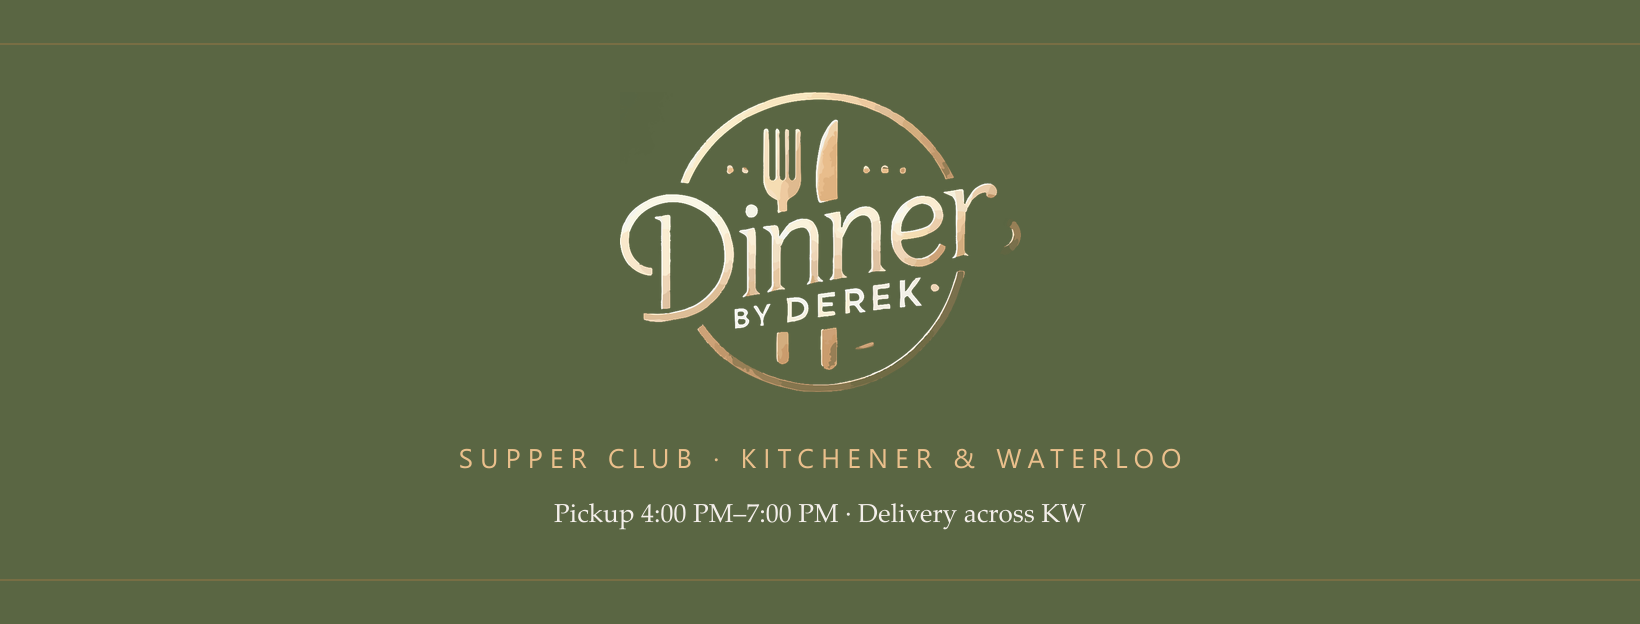
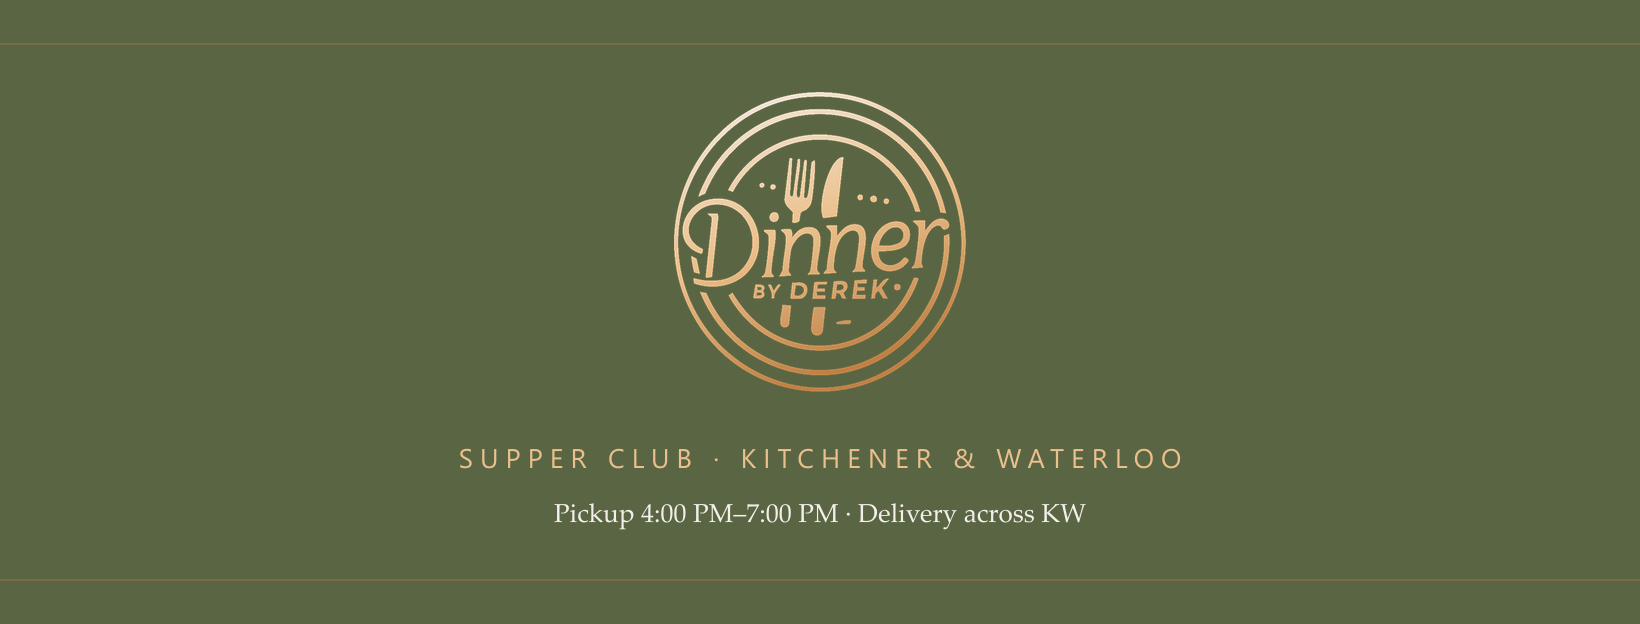
Cut the gold lockup from the line art
The lockup on the card, the social graphics and the README banner came from
logo-wordmark.svg, which is a trace of a soft render. Its strokes carry the
original's blur, its outer ring is broken, and it arrives gold-on-charcoal, so
the ground had to be keyed out by luminance and squared twice to kill the
vignette — a process that eats the darker strokes at exactly the edges that
define the mark. The result was patchy at any size.

The line art is the same mark drawn cleanly: unbroken double ring, real
transparency, hard edges. The shape now comes from there, and only the colour
is applied — a gradient of three palette stops, light at the top left and
deepening to the bottom right, which is what the gold artwork did and what a
stamped badge does. Nothing is sampled from the old file, so the lockup moves
when the palette moves.

It is built at the source's own size and resized once on the way out, rather
than up to a master size and back down.

The card front needed a number changed. The old lockup was wide — about 400px
across at 296 tall — and the line art is very nearly square, so holding the
height would have shrunk the mark by a quarter and left the card underfilled.
Grown to 340 with its centre held where it was, which restores the width the
layout was designed around. Every other layout keeps its size.

The ink threshold constants now live in brandmark.js and make-icons.js reads
them, rather than each carrying its own copy of two numbers tuned against one
file.

Changed region(s): [[0.3732, 0.1522, 0.622, 0.6394]]

diff --git a/scripts/brandmark.js b/scripts/brandmark.js
@@ -13,9 +13,15 @@
 
 const path = require('path');
 const sharp = require('sharp');
+const { palette } = require('../server/theme');
 
 const SOURCE = path.join(__dirname, '..', 'brand', 'logo-medallion.jpg');
+const LINEART = path.join(__dirname, '..', 'brand', 'logo-lineart.png');
 const WORDMARK = path.join(__dirname, '..', 'brand', 'logo-wordmark.svg');
+
+/** Ink threshold: pixels darker than this are logo, lighter are paper. */
+const INK_GAIN = 3.0;
+const INK_BIAS = -180;
 
 /**
  * Bounding box of the coloured artwork, grown to a square.
@@ -92,42 +98,67 @@ async function circle(size, file = SOURCE) {
 }
 
 /**
- * The full logo lockup — ring, cutlery, "Dinner" script, "BY DEREK" — knocked
- * out of its own background so it can sit on any dark brand colour.
+ * The full logo lockup — double ring, cutlery, "Dinner" script, "BY DEREK" —
+ * in the brand's gold, on a transparent ground so it can sit on any dark brand
+ * colour.
  *
- * It is supplied as gold-and-cream artwork on a cool charcoal ground, which is
- * off-palette. Rather than reproduce the mark, the charcoal is removed: the
- * artwork is light and its ground is dark, so luminance makes a usable alpha.
- * Squaring that alpha twice collapses the faint rectangular wash left by the
- * source's vignette — a plain threshold high enough to kill the wash also eats
- * the darker gold strokes, and a hard threshold jags the script.
+ * CUT FROM THE LINE ART, NOT FROM THE GOLD ARTWORK. Both exist. The gold
+ * version is a trace of a soft render: its strokes carry the original's
+ * blur, its outer ring is broken, and it arrives on a charcoal ground that has
+ * to be keyed out by luminance — which eats the darker strokes at exactly the
+ * edges that matter. The line art is the same mark drawn cleanly, with real
+ * transparency and an unbroken ring, so the shape comes from there and only
+ * the colour is applied here.
+ *
+ * The colour is a gradient of three palette stops, light at the top left and
+ * deepening to the bottom right, which is what the gold artwork does and what
+ * a stamped metal badge does. Nothing is sampled from the old file; the stops
+ * are palette names, so the lockup moves when the palette moves.
  *
  * Light artwork: this belongs on olive, espresso or umber, never on parchment.
  */
+const GOLD = [
+  [0, palette.parchment],
+  [0.55, palette['tan-lift']],
+  [1, palette.tan],
+];
+
+function goldFill(width, height) {
+  const stops = GOLD.map(([offset, colour]) =>
+    `<stop offset="${offset}" stop-color="${colour}"/>`).join('');
+  return Buffer.from(`<svg width="${width}" height="${height}">
+    <defs><linearGradient id="g" x1="0" y1="0" x2="0.35" y2="1">${stops}</linearGradient></defs>
+    <rect width="${width}" height="${height}" fill="url(#g)"/></svg>`);
+}
+
 let masterPromise = null;
-const MASTER = 1200;
 
 function master() {
   if (!masterPromise) {
     masterPromise = (async () => {
-      const rgb = await sharp(WORDMARK, { density: 300 })
-        .resize(MASTER, MASTER, { fit: 'inside' })
-        .removeAlpha()
+      // Built at the source's own size and resized once, on the way out, so a
+      // caller asking for 296px gets one interpolation rather than an upscale
+      // to some master size and a downscale back again.
+      const alpha = await sharp(LINEART)
+        .flatten({ background: { r: 255, g: 255, b: 255 } })
+        .greyscale()
+        .negate()                      // ink becomes bright
+        .linear(INK_GAIN, INK_BIAS)    // crush the paper to nothing, keep soft edges
+        .toColourspace('b-w')
+        .png()
         .toBuffer();
-      let alpha = await sharp(rgb).greyscale().linear(2.4, -130).toColourspace('b-w').toBuffer();
-      for (let i = 0; i < 2; i++) {
-        alpha = await sharp(alpha)
-          .composite([{ input: alpha, blend: 'multiply' }])
-          .toColourspace('b-w')
-          .toBuffer();
-      }
-      const cut = await sharp(rgb).joinChannel(alpha).png().toBuffer();
-      // Trimmed to the artwork's own edge, in a second pass: trim inspects the
-      // pipeline's input, so chaining it onto joinChannel would test the opaque
-      // charcoal and find nothing to cut. The source centres the lockup in a
-      // square with wide margins, and leaving those in lands the mark far
-      // smaller than the size asked for and drags whitespace into every layout.
-      return sharp(cut).trim({ threshold: 25 }).png({ compressionLevel: 9 }).toBuffer();
+      const { width, height } = await sharp(alpha).metadata();
+
+      // removeAlpha before joining: the rasterised gradient already carries an
+      // alpha channel, and joining onto four channels makes a fifth that sharp
+      // keeps as a band rather than as transparency — a fully opaque rectangle.
+      const fill = await sharp(goldFill(width, height)).removeAlpha().png().toBuffer();
+      const cut = await sharp(fill).joinChannel(alpha).png().toBuffer();
+
+      // Trimmed in a second pass: trim inspects the pipeline's input, so
+      // chaining it onto joinChannel would test the opaque gradient and find
+      // nothing to cut.
+      return sharp(cut).trim({ threshold: 10 }).png({ compressionLevel: 9 }).toBuffer();
     })();
   }
   return masterPromise;
@@ -147,4 +178,6 @@ async function wordmark({ width, height }) {
   return { data: out, width: meta.width, height: meta.height };
 }
 
-module.exports = { SOURCE, WORDMARK, bounds, circle, wordmark };
+module.exports = {
+  SOURCE, LINEART, WORDMARK, INK_GAIN, INK_BIAS, bounds, circle, wordmark,
+};

diff --git a/scripts/card.js b/scripts/card.js
@@ -167,7 +167,12 @@ const hour12 = (h) => `${h % 12 === 0 ? 12 : h % 12} ${h < 12 ? 'AM' : 'PM'}`;
  * set in type up here except the one line saying what this is and where.
  */
 async function front() {
-  const mark = await brandmark.wordmark({ height: 296 });
+  // Sized to the badge's width, not its height. The lockup used to be a wide
+  // mark about 400px across at this height; cut from the line art it is very
+  // nearly square, so holding the old height would have quietly shrunk it by a
+  // quarter and left the card looking underfilled. Grown until it carries the
+  // same width as before, and its centre held where it was.
+  const mark = await brandmark.wordmark({ height: 340 });
   const body = [
     rule(0, 100, W, palette.tan, 0.32, 2),
     rule(0, 576, W, palette.tan, 0.32, 2),
@@ -176,7 +181,7 @@ async function front() {
   ].join('');
 
   return render('card-front.png', palette.olive, body,
-    [{ input: mark.data, top: 146, left: Math.round(MID - mark.width / 2) }]);
+    [{ input: mark.data, top: 124, left: Math.round(MID - mark.width / 2) }]);
 }
 
 /* --- Back -----------------------------------------------------------------
@@ -238,7 +243,7 @@ async function back(d, url) {
 
 /* --- Run ------------------------------------------------------------------ */
 async function generate() {
-  for (const f of [brandmark.WORDMARK, brandmark.SOURCE]) {
+  for (const f of [brandmark.LINEART, brandmark.SOURCE]) {
     if (!fs.existsSync(f)) throw new Error(`Missing brand artwork: ${f}`);
   }
   fs.mkdirSync(OUT, { recursive: true });

diff --git a/scripts/make-icons.js b/scripts/make-icons.js
@@ -52,9 +52,10 @@ const paper = () => {
   return paperPromise;
 };
 
-/** Ink threshold: pixels darker than this are logo, lighter are paper. */
-const INK_GAIN = 3.0;
-const INK_BIAS = -180;
+/* Ink threshold: pixels darker than this are logo, lighter are paper. Defined
+   in brandmark.js, which cuts the lockup from the same line art — one set of
+   numbers tuned against one file, not two that can drift apart. */
+const { INK_GAIN, INK_BIAS } = brandmark;
 
 function hexToRgb(hex) {
   const h = hex.replace('#', '');

diff --git a/scripts/readme-art.js b/scripts/readme-art.js
@@ -179,8 +179,8 @@ const SWATCHES = ['olive', 'tan', 'umber', 'parchment', 'espresso', 'ochre',
 
 /* --- Run ------------------------------------------------------------------ */
 async function generate() {
-  if (!fs.existsSync(brandmark.WORDMARK)) {
-    throw new Error(`Missing brand artwork: ${brandmark.WORDMARK}`);
+  if (!fs.existsSync(brandmark.LINEART)) {
+    throw new Error(`Missing brand artwork: ${brandmark.LINEART}`);
   }
   fs.mkdirSync(OUT, { recursive: true });
 

diff --git a/scripts/social.js b/scripts/social.js
@@ -323,7 +323,7 @@ async function linkPreview(w) {
  * a function call doesn't already give — including the real error text.
  */
 async function generate() {
-  for (const f of [brandmark.WORDMARK, brandmark.SOURCE]) {
+  for (const f of [brandmark.LINEART, brandmark.SOURCE]) {
     if (!fs.existsSync(f)) throw new Error(`Missing brand artwork: ${f}`);
   }
   fs.mkdirSync(OUT, { recursive: true });

diff --git a/README.md b/README.md
@@ -580,8 +580,12 @@ can be unreadable on a phone in a bright kitchen.
 
 Source artwork is in `brand/`:
 
-- `logo-lineart.png` — the black line-art mark, transparent. **This is what the
-  icons are built from.**
+- `logo-lineart.png` — the black line-art mark, transparent, 646×664. **This is
+  what everything carrying the logo is built from**: the icons, and the gold
+  lockup on the business card, the social graphics and the README banner. The
+  lines are clean, the double ring is unbroken, and the transparency is real,
+  so the shape is taken from here and only the colour is applied — a gradient
+  of palette stops, light at the top left and deepening to the bottom right.
 - `logo-lineart.jpg` — the same mark, flattened onto white. Superseded by the
   PNG above and kept only because it is what the first icons were cut from.
 - `logo-medallion.jpg` — the leather version, 1000×1027 with the badge about
@@ -590,9 +594,11 @@ Source artwork is in `brand/`:
   genuinely transparent, which is why `brandmark.js` finds the badge by colour
   and clips 3% inside its edge. Replacing it with a larger export is the single
   cheapest upgrade to both; nothing else needs changing.
-- `logo-wordmark.svg` — the full gold lockup, vector. **This is what the social
-  graphics and the README banner are built from**, because it is the only
-  source that stays sharp at poster size.
+- `logo-wordmark.svg` — the gold lockup, vector. **Nothing reads it any more.**
+  It is a trace of a soft render: the strokes carry the original's blur, the
+  outer ring is broken, and it arrives on a charcoal ground that has to be
+  keyed out by luminance, which eats the darker strokes at the edges. Kept
+  because it is the only coloured vector of the mark.
 - `logo-source.ai` — the Illustrator master. Nothing reads it; it is here so
   the artwork can be edited rather than re-traced.
 - `IDENTITY.txt` — the brand guide the palette came from, verbatim.
